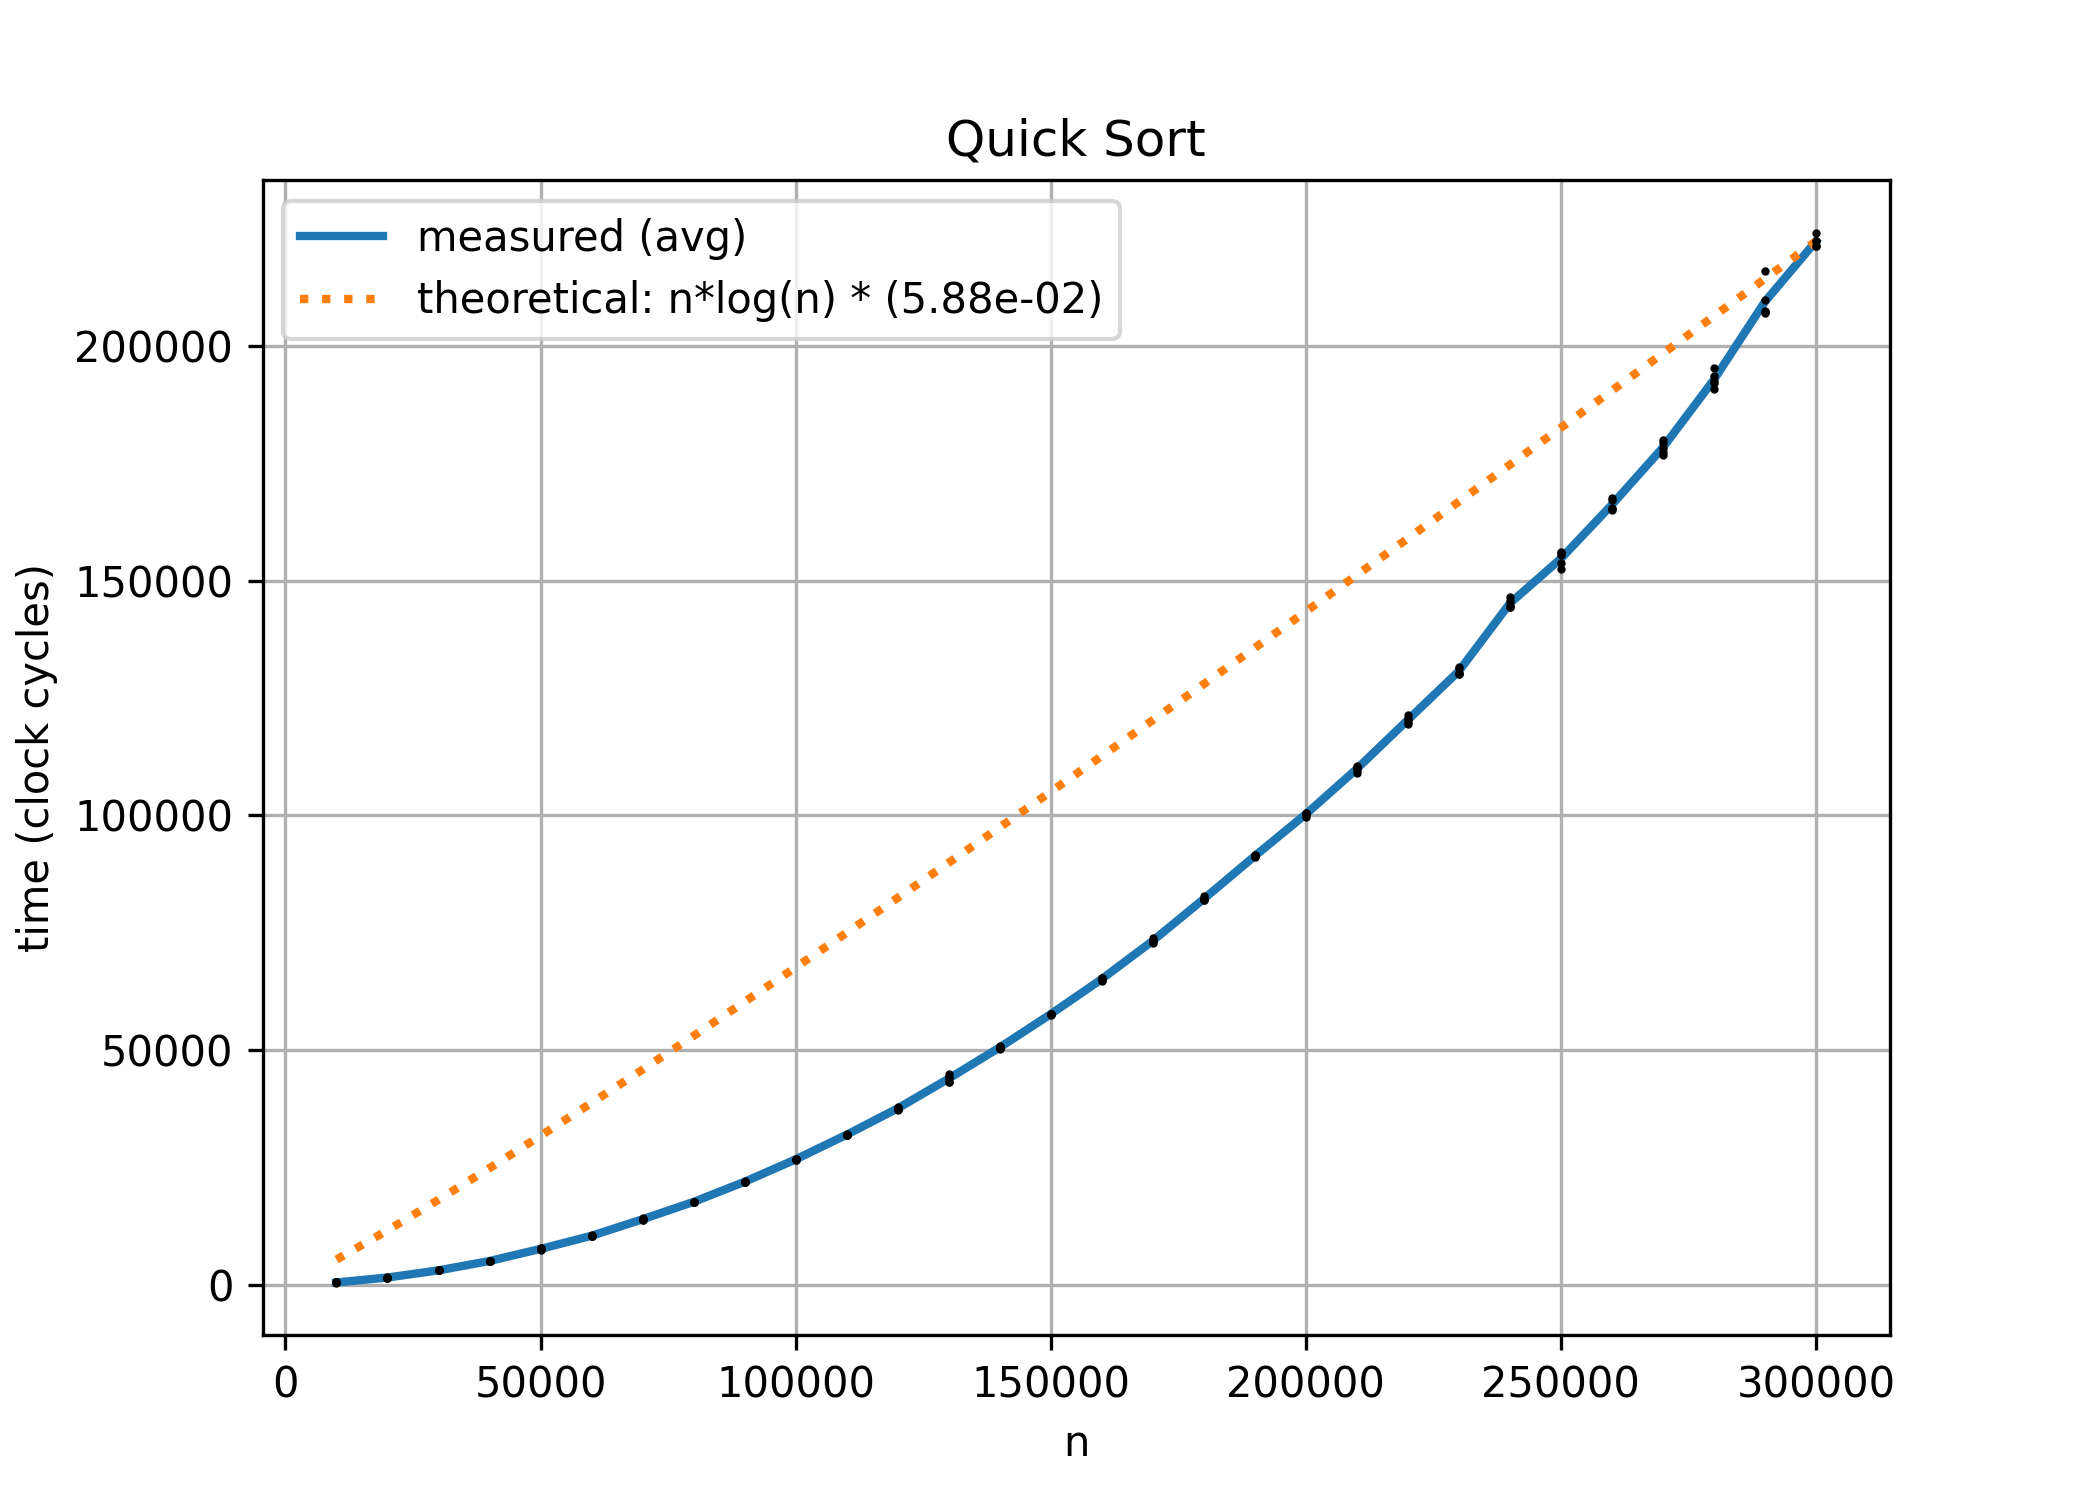
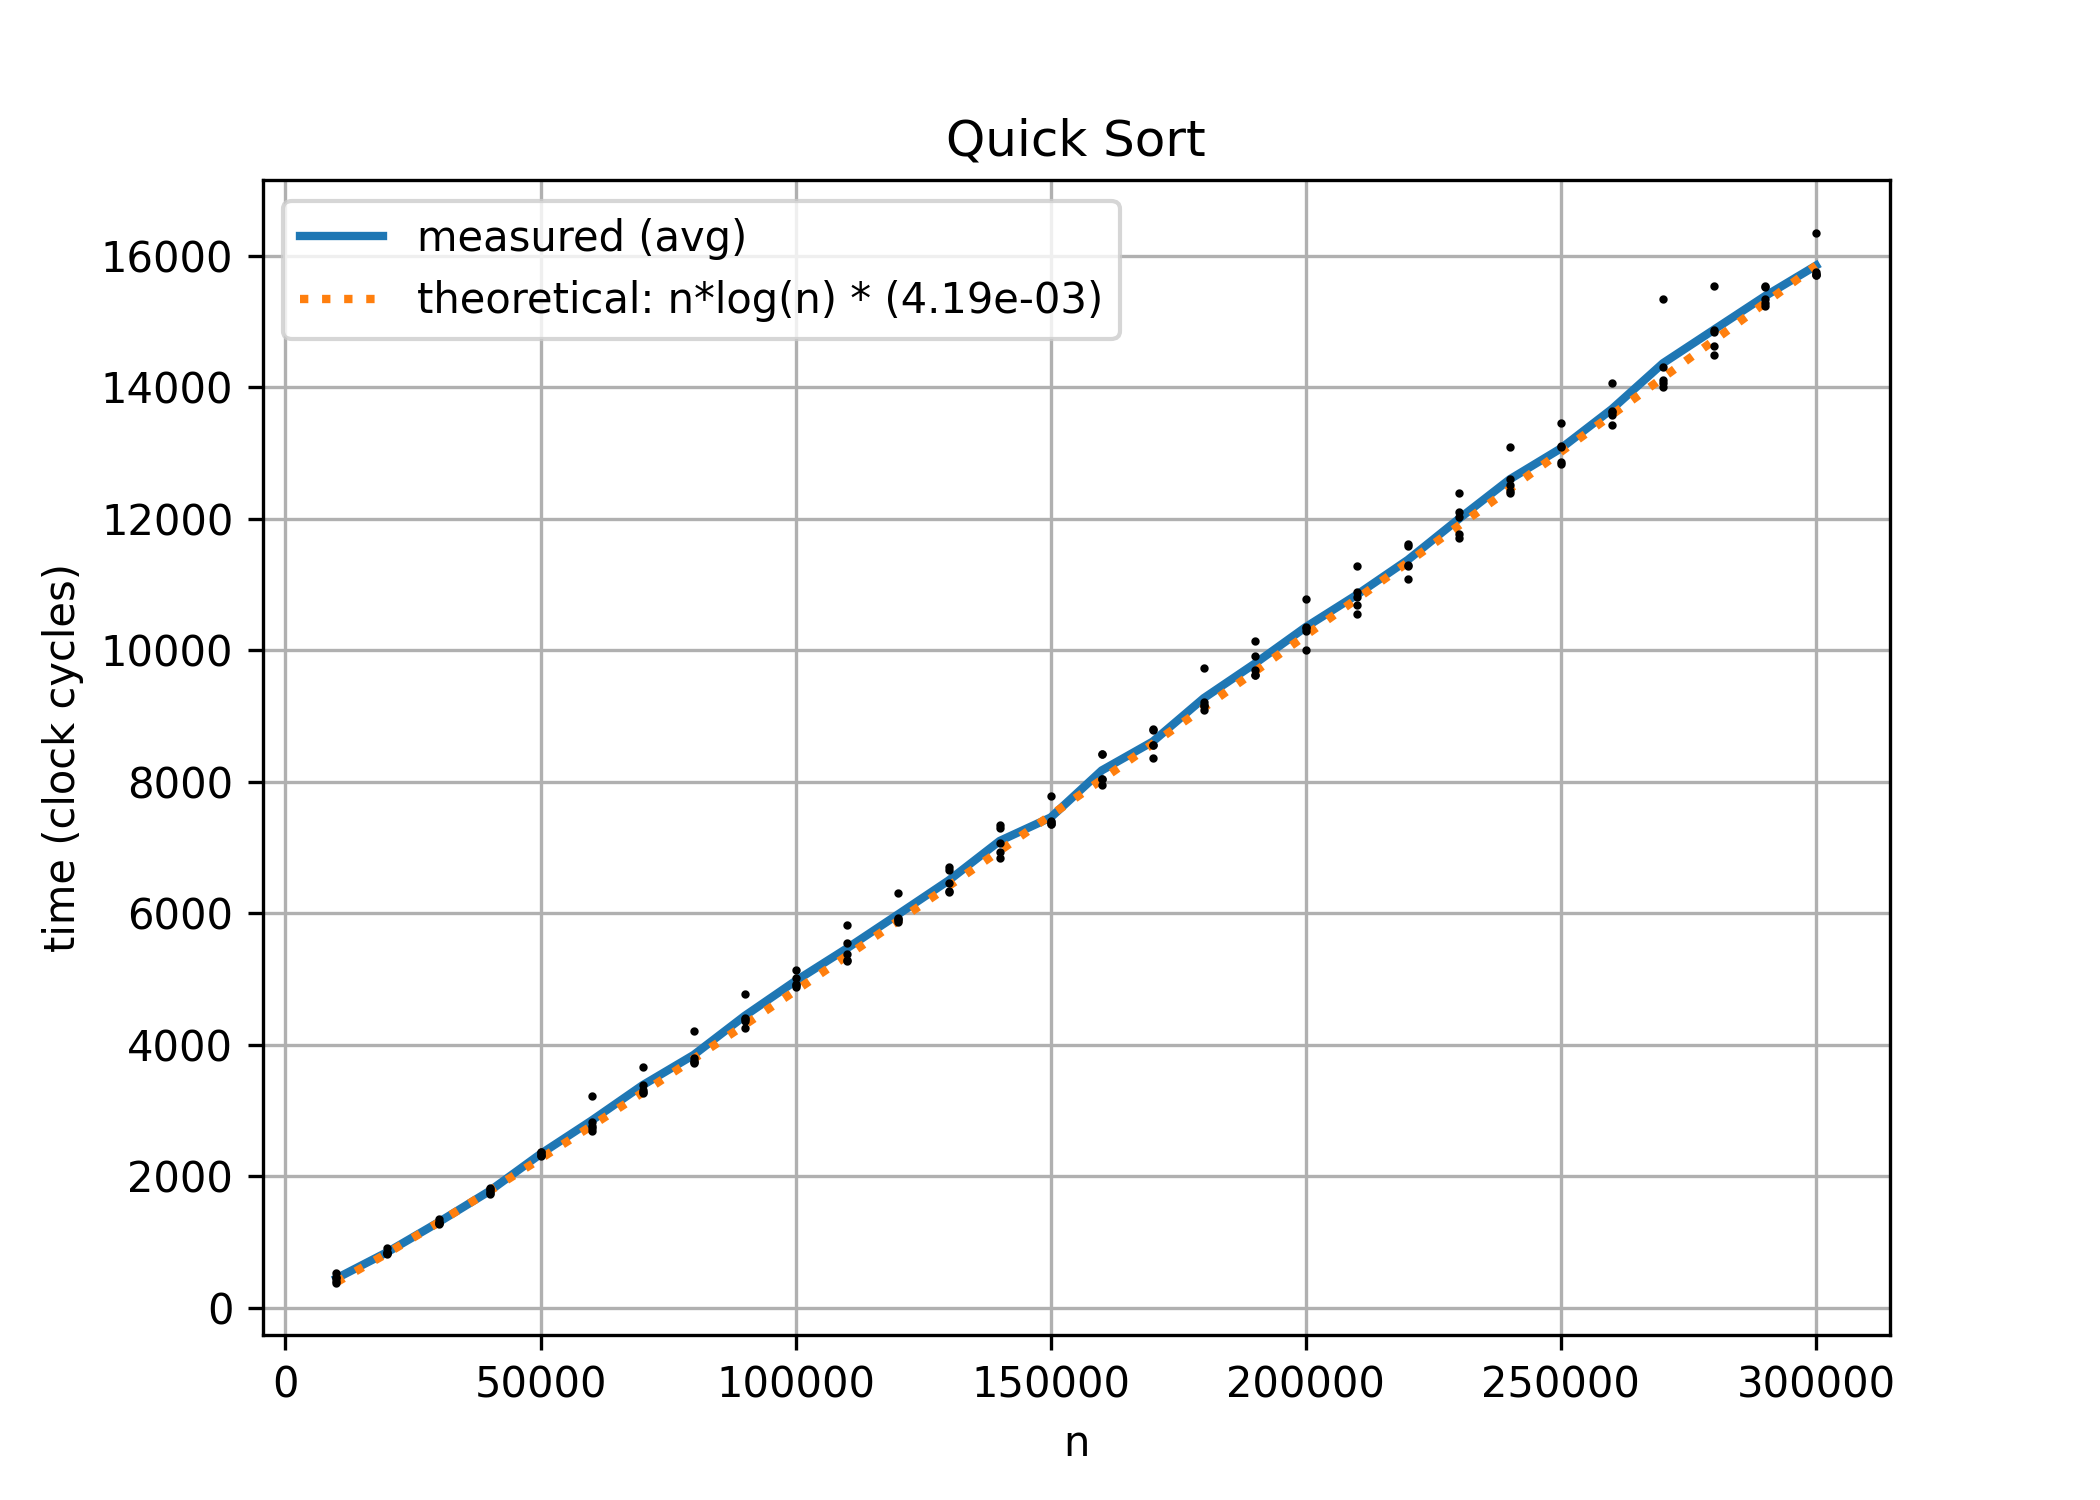
update results

diff --git a/README.md b/README.md
@@ -19,6 +19,8 @@ To maintain fairness, the following measures were taken:
 
 ## Results
 
+### Individual algorithms
+
 ![Insertion Sort Results](out/insertion.png)
 
 ![Selection Sort Results](out/selection.png)
@@ -28,3 +30,9 @@ To maintain fairness, the following measures were taken:
 ![Heap Sort Results](out/heap.png)
 
 ![Quick Sort Results](out/quick.png)
+
+### Algorithms comparison
+
+![Quadratic Algorithms](out/quadratic.png)
+
+![Logarithmic Algorithms](out/nlogn.png)
